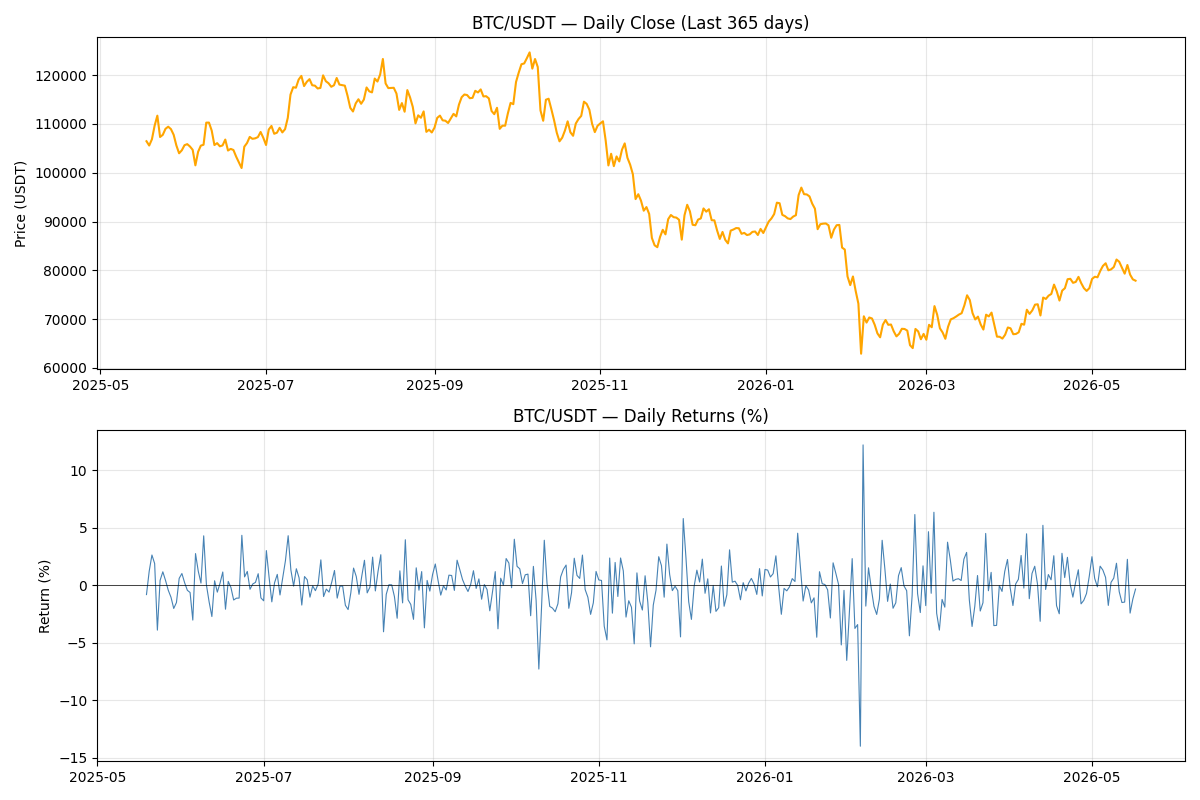
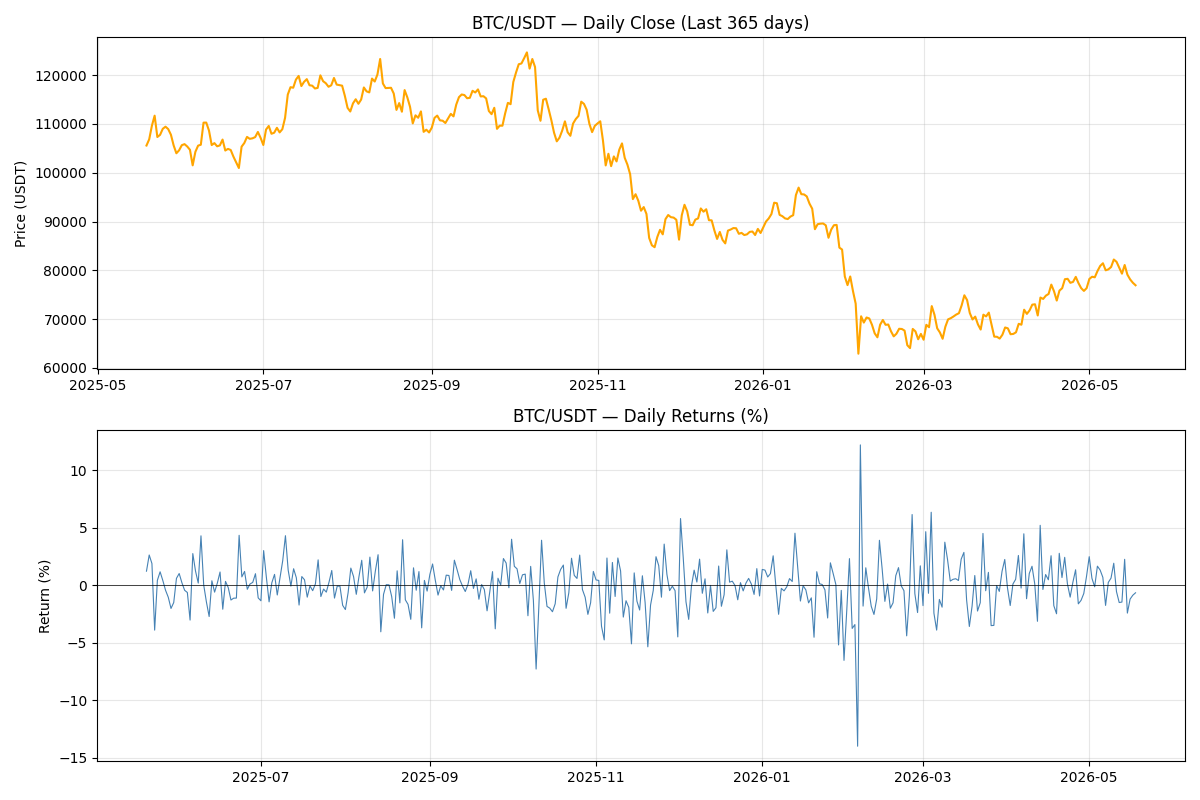
day 2

diff --git a/day2.py b/day2.py
@@ -1,0 +1,108 @@
+"""
+Day 2: Return distributions, fat tails, and multi-year comparison.
+"""
+
+import ccxt
+import pandas as pd
+import numpy as np
+import matplotlib.pyplot as plt
+from scipy import stats
+
+exchange = ccxt.binance()
+
+def fetch_history(symbol, days):
+    """Fetch up to `days` of daily candles by paginating backwards."""
+    all_ohlcv = []
+    since = exchange.parse8601(
+        (pd.Timestamp.utcnow() - pd.Timedelta(days=days)).strftime('%Y-%m-%dT%H:%M:%SZ')
+    )
+    while True:
+        chunk = exchange.fetch_ohlcv(symbol, timeframe='1d', since=since, limit=1000)
+        if not chunk:
+            break
+        all_ohlcv += chunk
+        since = chunk[-1][0] + 86400_000  # next day in ms
+        if len(chunk) < 1000:
+            break
+    df = pd.DataFrame(all_ohlcv, columns=['timestamp', 'open', 'high', 'low', 'close', 'volume'])
+    df['timestamp'] = pd.to_datetime(df['timestamp'], unit='ms')
+    df = df.drop_duplicates('timestamp').set_index('timestamp')
+    return df
+
+
+def analyze(symbol, days=1825):  # ~5 years
+    print(f"\n{'=' * 60}")
+    print(f"  {symbol}  —  last {days} days")
+    print('=' * 60)
+
+    df = fetch_history(symbol, days)
+    df['log_return'] = np.log(df['close'] / df['close'].shift(1))
+    returns = df['log_return'].dropna()
+
+    # --- Stats ---
+    mean = returns.mean()
+    std = returns.std()
+    skew = stats.skew(returns)
+    kurt = stats.kurtosis(returns)  # excess kurtosis (normal = 0)
+
+    print(f"Sample size:        {len(returns)} days")
+    print(f"Mean daily return:  {mean * 100:.3f}%")
+    print(f"Daily volatility:   {std * 100:.2f}%")
+    print(f"Annualized vol:     {std * np.sqrt(365) * 100:.2f}%")
+    print(f"Skewness:           {skew:.3f}")
+    print(f"Excess kurtosis:    {kurt:.3f}   (normal = 0)")
+
+    # --- Expected vs actual extreme days ---
+    # Under normal distribution, P(|return| > 3*std) ≈ 0.27%
+    threshold = 3 * std
+    actual_extreme = (returns.abs() > threshold).sum()
+    expected_extreme = len(returns) * 0.0027
+    print(f"\nExpected 3-sigma days (normal): {expected_extreme:.1f}")
+    print(f"Actual 3-sigma days:            {actual_extreme}")
+    print(f"Ratio:                          {actual_extreme / max(expected_extreme, 0.01):.1f}x more than normal predicts")
+
+    return df, returns
+
+
+def plot_distribution(returns, symbol, ax):
+    """Histogram of returns vs fitted normal distribution."""
+    returns_pct = returns * 100
+    ax.hist(returns_pct, bins=60, density=True, alpha=0.6, color='steelblue', label='Actual returns')
+
+    # Overlay normal distribution with same mean and std
+    x = np.linspace(returns_pct.min(), returns_pct.max(), 200)
+    mu, sigma = returns_pct.mean(), returns_pct.std()
+    ax.plot(x, stats.norm.pdf(x, mu, sigma), 'r-', linewidth=2, label='Normal distribution')
+
+    ax.set_title(f'{symbol} — Return distribution')
+    ax.set_xlabel('Daily return (%)')
+    ax.set_ylabel('Density')
+    ax.legend()
+    ax.grid(True, alpha=0.3)
+
+
+# --- Run for BTC, ETH, SOL ---
+btc_df, btc_ret = analyze('BTC/USDT', days=1825)
+eth_df, eth_ret = analyze('ETH/USDT', days=1825)
+sol_df, sol_ret = analyze('SOL/USDT', days=1825)
+
+# --- Plot all three side by side ---
+fig, axes = plt.subplots(1, 3, figsize=(18, 5))
+plot_distribution(btc_ret, 'BTC/USDT', axes[0])
+plot_distribution(eth_ret, 'ETH/USDT', axes[1])
+plot_distribution(sol_ret, 'SOL/USDT', axes[2])
+plt.tight_layout()
+plt.savefig('notes/day2_distributions.png', dpi=100)
+plt.show()
+
+# --- Q-Q plot: another way to see fat tails ---
+fig, axes = plt.subplots(1, 3, figsize=(18, 5))
+for ax, (returns, name) in zip(axes, [(btc_ret, 'BTC'), (eth_ret, 'ETH'), (sol_ret, 'SOL')]):
+    stats.probplot(returns, dist='norm', plot=ax)
+    ax.set_title(f'{name} — Q-Q plot vs Normal')
+    ax.grid(True, alpha=0.3)
+plt.tight_layout()
+plt.savefig('notes/day2_qq_plots.png', dpi=100)
+plt.show()
+
+print("\nCharts saved to notes/")

diff --git a/notes/day2.md b/notes/day2.md
@@ -1,0 +1,19 @@
+# Day 1 — BTC/USDT exploration
+
+## Numbers
+- 1-year return: -27.12%
+- Annualized volatility: 54.68%%
+- Worst day: -14.02%
+- Best day: 12.19%
+
+## Observations
+- What does the return distribution look like? Are big moves common?
+- Compare BTC's annualized vol to a stock index (S&P 500 is ~15-20%).
+- Any patterns visible in the chart?
+
+## Questions for tomorrow
+- 
+- 
+
+## Tomorrow's goal
+-